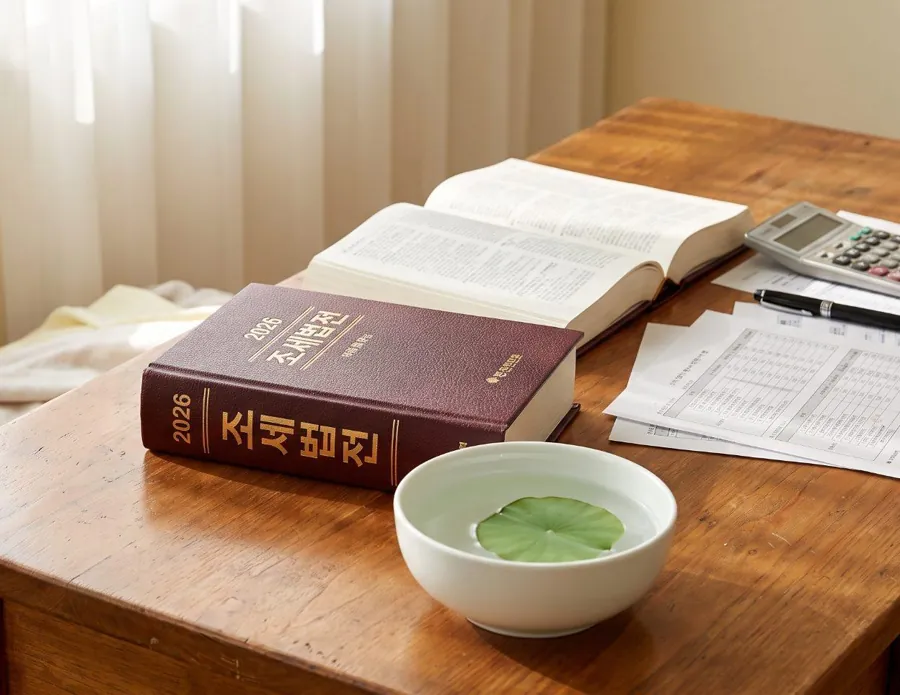
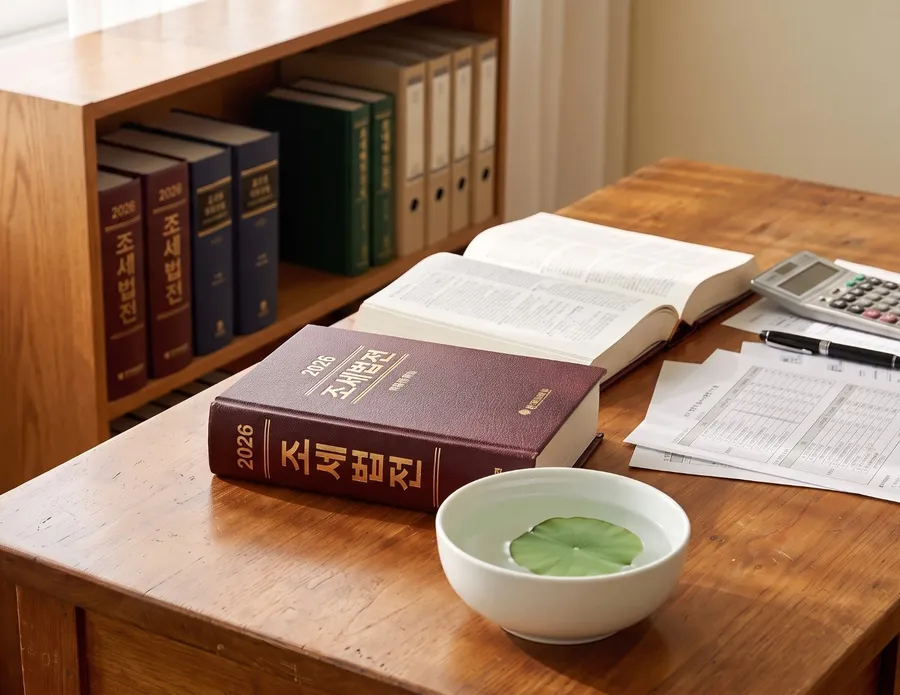
히어로 사진: 커튼 옆 천을 책장으로 교체, 본문 가독성 위해 왼쪽 페이드 확대
Claude-Session: https://claude.ai/code/session_0136QBGbPzZZJ4SmNmdtKpe7

diff --git a/style.css b/style.css
@@ -378,3 +378,8 @@ section.block.alt .band{background:#fff;border:1px solid var(--ivory-line)}
 .hero-c1 .hero-img.m{display:none}
 .hero-c1 .ccard{right:20px;top:56px}
 @media (max-width:760px){.hero-c1 .hero-img.d{display:none}.hero-c1 .hero-img.m{display:block}}
+
+/* v12: 책장 배경 위 본문 가독성 — 왼쪽 페이드 구간 확대 */
+@media (min-width:761px){
+  .hero-c1 .hero-img.d{-webkit-mask-image:linear-gradient(90deg,transparent 0%,rgba(0,0,0,.08) 14%,rgba(0,0,0,.55) 30%,#000 44%);mask-image:linear-gradient(90deg,transparent 0%,rgba(0,0,0,.08) 14%,rgba(0,0,0,.55) 30%,#000 44%)}
+}
